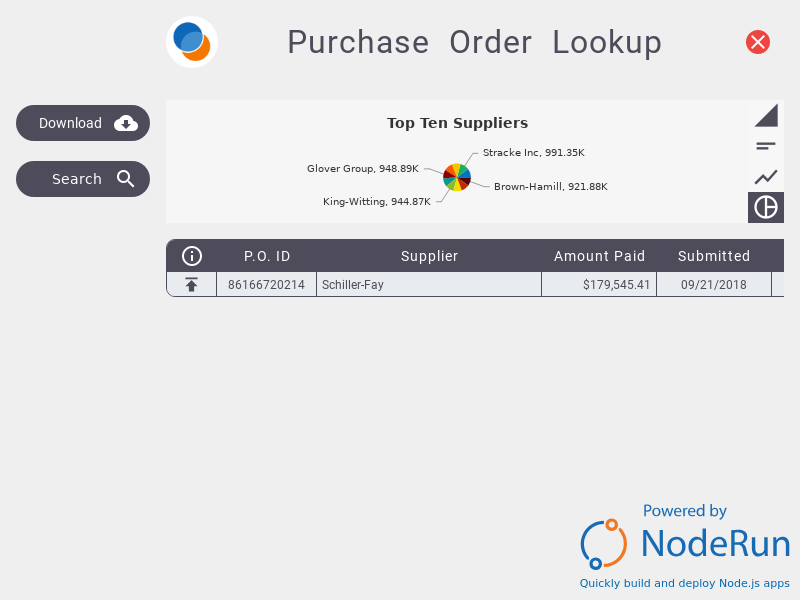
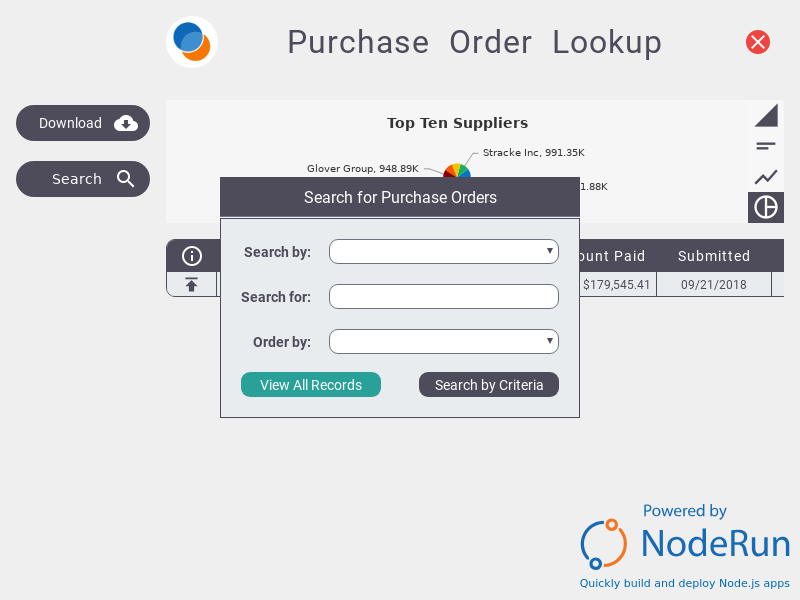
adding search dialog

Changed region(s): [[0.25, 0.27, 0.75, 0.51], [0.2812, 0.54, 0.7188, 0.66]]

diff --git a/app.js b/app.js
@@ -3,7 +3,7 @@ var x = pjs.require('x.js');
 var iAm = a.iAm;
 
 function app() {
-  
+
   pjs.defineDisplay('app', 'app.json');
   a.tableNames = ['po_details', 'po_status', 'po_table'];
   console.log('Started: ', new Date);
@@ -52,18 +52,23 @@ function app() {
     // Display screen.
     app.frec.execute();
 
+    if (iSearch) {
+      app.wrec.execute();
+      if (poShowAll);
+      if (poShowByCriteria);
+    }
     // If the user submitted a new record to insert into table.
     var changed = app.sfrec.readChanged();
     // console.log(changed);
-    
+
     // if (changed && changed.iAdd == true) a.iInsert(changed);
-    
+
     if (changed && changed.iDelete == true) a.iDelete(changed);
-    
+
     if (changed && changed.iEdit == true) edit(changed);
-    
+
     if (changed && changed.iDownload == true) poAllOfRecord = a.iDownload(changed);
-      else poAllOfRecord = '';
+    else poAllOfRecord = '';
 
     console.log('Looped: ', new Date);
 

diff --git a/public/styles/styles.css b/public/styles/styles.css
@@ -1,3 +1,4 @@
 @import url('https://noderun.com/run/megan_bond/po/public/styles/mauvelous.set.css');
 @import url('https://noderun.com/run/megan_bond/po/public/styles/content.css');
 @import url('https://noderun.com/run/megan_bond/po/public/styles/media.css');
+@import url('https://noderun.com/run/megan_bond/po/public/styles/designer.css');

diff --git a/a.js b/a.js
@@ -47,6 +47,10 @@ var a = {
     var l = opt.limit || '';
     return pjs.query('SELECT ' + s + ' FROM ' + t + w + o + l);
   },
+  
+  iSearch: function () {
+
+  },
 
   iInsert: function (rec, tbl) {
     tbl = tbl || 'po_table';
